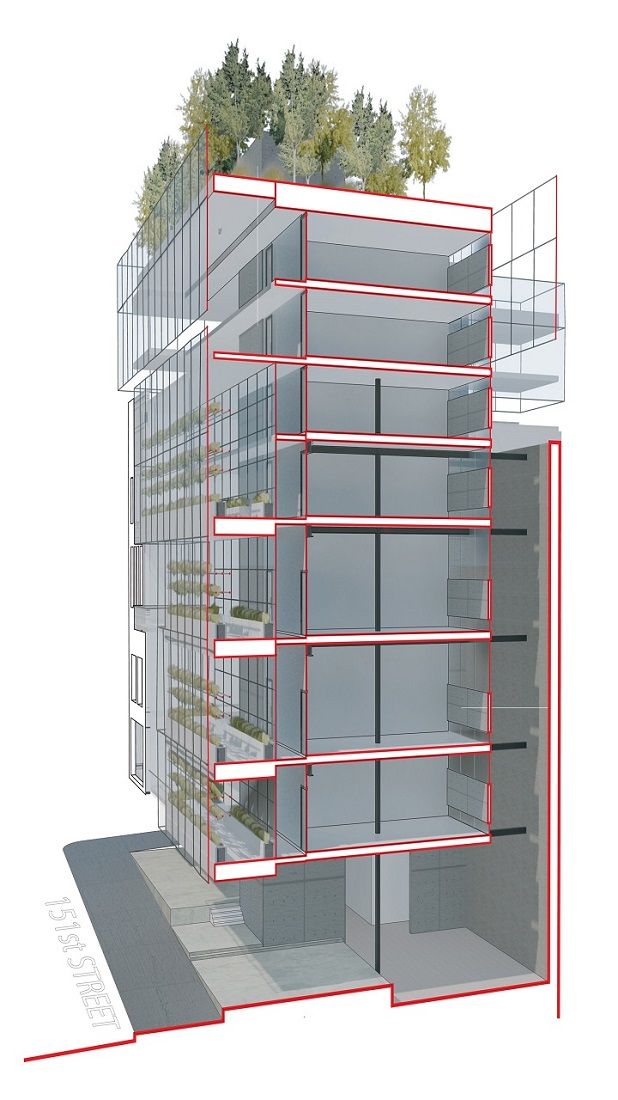
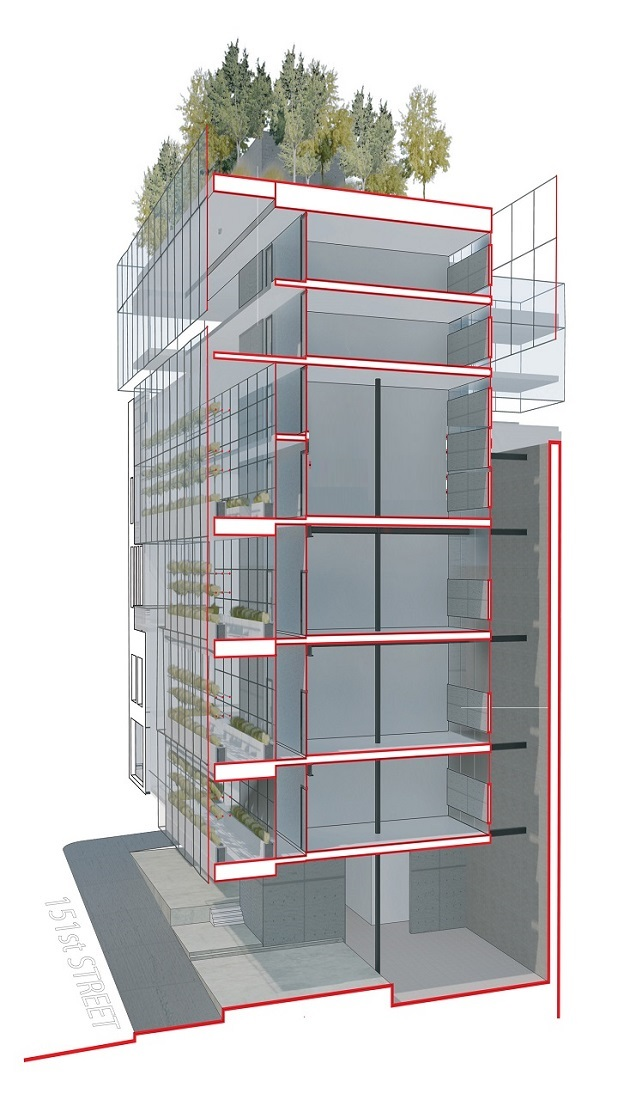
Fixed amount of floors. Changed image.

Changed region(s): [[0.4919, 0.3709, 0.7994, 0.4327]]

diff --git a/www/index.html b/www/index.html
@@ -158,10 +158,9 @@
     <div data-role="content">
         <img src="img/section_trans-cutted.jpg"  width="618" height="1100"  class="map" usemap="#Navigation">
         <map id="navigation-map" name="Navigation">
-            <area shape="poly" coords="308,211,493,232,490,296,308,278" page-number="7" />
-            <area shape="poly" coords="308,289,493,305,490,367,309,356" page-number="6"/>
-            <area shape="poly" coords="308,363,492,373,492,441,310,431" page-number="5"/>
-            <area shape="poly" coords="308,441,493,448,494,518,305,515" page-number="4"/>
+            <area shape="poly" coords="308,211,493,232,490,296,308,278" page-number="6" />
+            <area shape="poly" coords="308,289,493,305,490,367,309,356" page-number="5"/>
+            <area shape="poly" coords="308,365,487,377,489,515,308,515" page-number="4"/>
             <area shape="poly" coords="309,527,493,527,489,631,305,636" page-number="3"/>
             <area shape="poly" coords="308,648,491,641,490,742,309,755" page-number="2"/>
             <area shape="poly" coords="309,766,492,750,488,834,307,851" page-number="1"/>
